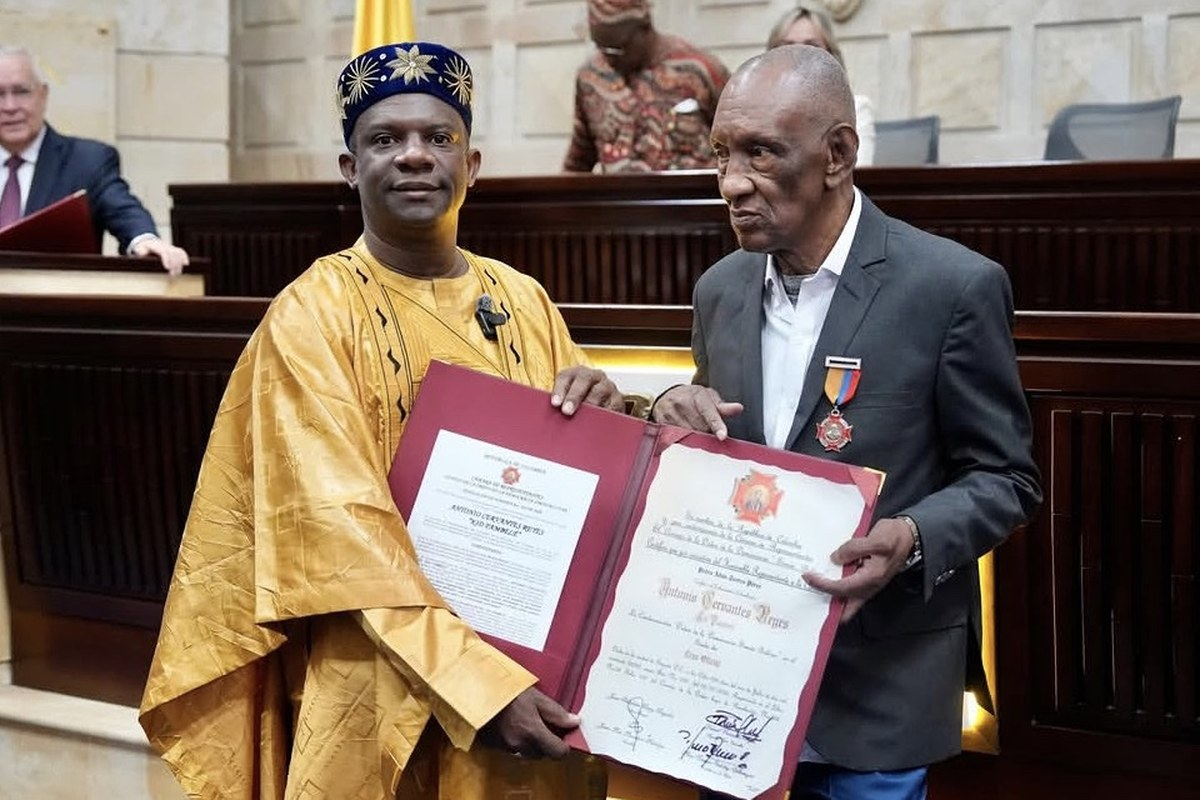
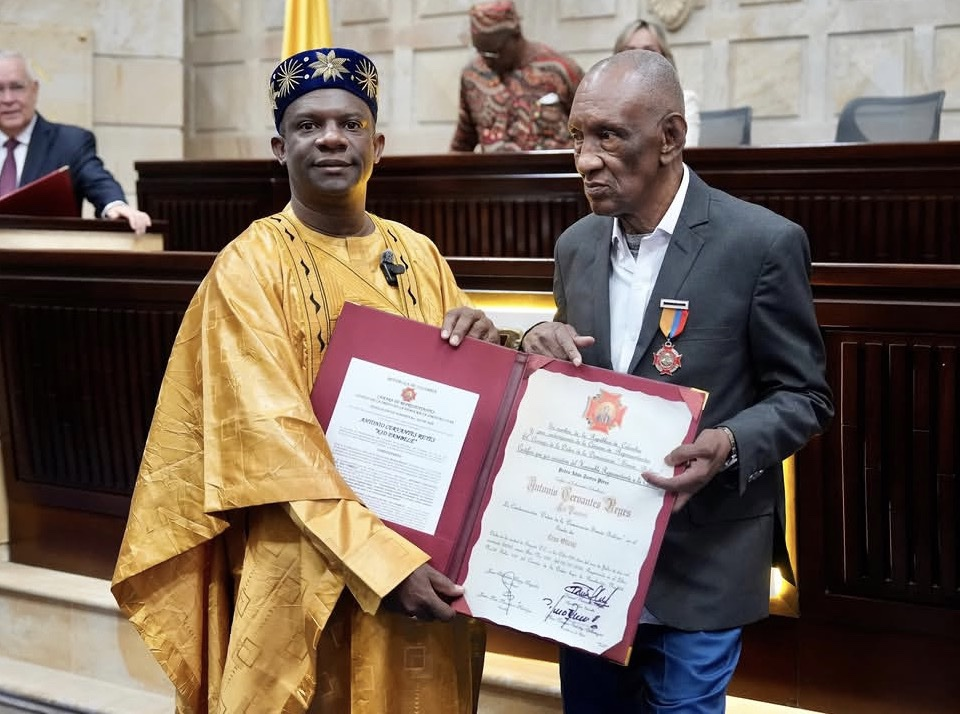
feat: galería de la sala, Pambelé y Pedro de vuelta (#19)
Tres fotos nuevas en la pieza de Orika. Se restauran el homenaje a
Kid Pambelé y el perfil de Pedro Adán Torres, sin la línea de
financiador. El pie sigue con Iniciar sesión.

diff --git a/lib/semilla.ts b/lib/semilla.ts
@@ -3,7 +3,8 @@ import type { EventoAgenda, PiezaPublica } from "./supabase/tipos";
 /**
  * Piezas en código cuando la base no tiene publicadas.
  * Mismo shape que una `pieza` publicada.
- * Foto de la sala en `public/semilla/sala-computo-inauguracion.jpg`.
+ * Fotos de la sala, del homenaje a Pambelé y del retrato de Torres
+ * en `public/semilla/`.
  */
 const AUTOR = { nombre: "El Chakero" };
 
@@ -30,6 +31,20 @@ export const SEMILLA_PIEZAS: PiezaPublica[] = [
     foto_url: "/semilla/sala-computo-inauguracion.jpg",
     pie_foto:
       "La sala de cómputo el día de la inauguración, 15 de septiembre de 2026.",
+    galeria: [
+      {
+        url: "/semilla/sala-computo-cinta.jpg",
+        pie: "Corte de cinta el día de la inauguración de la sala de cómputo, 15 de septiembre de 2026.",
+      },
+      {
+        url: "/semilla/sala-computo-clase.jpg",
+        pie: "Pedro Adán Torres con estudiantes en la sala de cómputo, el día de la inauguración.",
+      },
+      {
+        url: "/semilla/sala-computo-grupo.jpg",
+        pie: "La sala de cómputo el día de la inauguración, con estudiantes y profesores.",
+      },
+    ],
     audio_url: null,
     duracion: "1:25",
     entradilla:
@@ -80,6 +95,152 @@ Los estudiantes que entraron a la sala el martes hablaron de lo mismo: de lo bon
 
 Los computadores ya están. Lo que falta es el internet: la red del colegio tiene que mejorar para sacarles provecho. Torres dijo que va a seguir con esto; quiere que el Benkos Biohó sea un colegio de alta calidad, y Orika es el camino que propone para llegar ahí.`,
     transparencia: null,
+  }),
+  pieza({
+    id: "a1e1c001-0012-4000-8000-000000000012",
+    slug: "homenaje-kid-pambele-congreso-y-palenque",
+    titulo: "El Congreso condecoró a Kid Pambelé; en Palenque también lo honraron",
+    seccion: "cultura",
+    formato: "noticia",
+    fecha_publicacion: "2026-07-29T14:00:00-05:00",
+    foto_url: "/semilla/homenaje-kid-pambele.jpg",
+    pie_foto:
+      "Homenaje a Kid Pambelé: Pedro Adán Torres entrega la Orden de la Democracia Simón Bolívar – Gran Cruz Caballero a Antonio Cervantes Reyes, en el Congreso.",
+    audio_url: null,
+    duracion: null,
+    entradilla:
+      "Antonio Cervantes Reyes, de Palenque, primer campeón mundial de boxeo de Colombia. En julio el Congreso le impuso la Orden de la Democracia Simón Bolívar – Gran Cruz Caballero, por iniciativa de Pedro Adán Torres. En Palenque, en la Convención del Partido Demócrata Colombiano, el pueblo también lo honró.",
+    cuerpo: `En julio de 2026 el Congreso impuso a Antonio Cervantes Reyes, Kid Pambelé, la Orden de la Democracia Simón Bolívar – Gran Cruz Caballero.
+
+Cervantes es de Palenque. El Universal dató el nacimiento el 23 de diciembre de 1945, en San Basilio de Palenque. El 28 de octubre de 1972, dice esa misma casa, ganó por nocaut en el décimo asalto al panameño Alfonso «Peppermint» Frazer y se quedó con el título mundial de los wélter júnior: el primer cinturón mundial de boxeo de Colombia. El palenquero fue campeón en dos periodos; en 1998, según ese medio, entró al Salón Internacional de la Fama del Boxeo. El Chakero no inventa un combate.
+
+El Universal anunció el homenaje para el lunes 20, día de la instalación del nuevo Congreso. El Bolivarense lo dató el viernes 17. El Heraldo y Diario La Libertad lo publicaron el 20. Semana escribió que fue pocos días antes de que cerrara esa legislatura. El Chakero no va a pelear el día. El dato es este: Salón Boyacá del Capitolio. La orden es una de las distinciones altas de la Cámara. La impuso Pedro Adán Torres Pérez, de Palenque, entonces representante por la circunscripción especial afrodescendiente, presidente del Partido Demócrata Colombiano.
+
+En la foto, Torres entrega la orden y Pambelé la recibe.
+
+Torres, según El Heraldo: «Su historia, nacida en San Basilio de Palenque, inspiró a generaciones de colombianos y abrió el camino para que el talento de muchos jóvenes encontrara nuevas oportunidades en el deporte». Y, en varios medios, esta otra: «Kid Pambelé no solo conquistó títulos mundiales; conquistó el respeto y la admiración de todo un país. Su ejemplo demuestra que el talento, la disciplina y la perseverancia pueden romper cualquier barrera. Hoy el Congreso de la República honra a un campeón que pertenece para siempre a la historia de Colombia».
+
+En el mismo acto, dicen Caracol, El Universal y Diario La Libertad, también condecoraron a Johana Ximena Aranda Rivera, alcaldesa de Ibagué; a Francisco Hernández, primer árbitro internacional de boxeo oriundo de Palenque; y a José Alfredo Herazo, por el trabajo con las comunidades negras, afrocolombianas, raizales y palenqueras. Discursos de ellos no hay aquí.
+
+El Universal recuerda que no era la primera vez en el Capitolio: en octubre de 2022, al cumplirse 50 años de la primera corona, lo condecoraron en el Salón Elíptico.
+
+Ese homenaje no se quedó en Bogotá. En Palenque, en la Convención Nacional del Partido Demócrata Colombiano —la que Vive La Noticia dató el 29 de julio—, también se le rindió homenaje a Cervantes. Lo que publicaron los otros es el Capitolio. Aquí el dato de El Chakero es el segundo acto: el pueblo. No hay hora, ni lista de oradores, ni presupuesto. Si sabes de algo que pasó, cuéntanos.
+
+Fotógrafo no se nombra. Gente tiene a Torres. Comunidad tiene la Convención.`,
+    cita: {
+      texto:
+        "Kid Pambelé no solo conquistó títulos mundiales; conquistó el respeto y la admiración de todo un país. Su ejemplo demuestra que el talento, la disciplina y la perseverancia pueden romper cualquier barrera. Hoy el Congreso de la República honra a un campeón que pertenece para siempre a la historia de Colombia.",
+      fuente:
+        "Pedro Adán Torres Pérez, homenaje en el Congreso, julio de 2026, citado por El Universal, Diario La Libertad y El Heraldo",
+    },
+    transparencia: null,
+    fuentes: [
+      {
+        texto: "El Universal, 17 jul 2026 — anuncio del homenaje y ficha de Pambelé",
+        url: "https://www.eluniversal.com.co/deportes/2026/07/17/el-congreso-rendira-tributo-a-la-leyenda-del-boxeo-kid-pambele/",
+      },
+      {
+        texto: "El Universal, 19 jul 2026 — la orden en el Salón Boyacá",
+        url: "https://www.eluniversal.com.co/deportes/2026/07/18/kid-pambele-recibio-la-orden-de-la-democracia-simon-bolivar-gran-cruz-caballero/",
+      },
+      {
+        texto: "Diario La Libertad, 20 jul 2026 — Torres entrega el reconocimiento",
+        url: "https://diariolalibertad.com/2026/07/20/pedro-adan-torres-entrega-reconocimiento-a-kid-pambele-en-el-congreso-de-la-republica/",
+      },
+      {
+        texto: "El Heraldo, 20 jul 2026 — citas de Torres y los otros condecorados",
+        url: "https://www.elheraldo.co/politica/2026/07/20/kid-pambele-es-reconocido-con-gran-cruz-caballero-del-congreso-de-la-republica-por-su-trayectoria-y-legado/",
+      },
+      {
+        texto: "Caracol Radio, 21 jul 2026 — Salón Boyacá y la orden",
+        url: "https://caracol.com.co/2026/07/21/congreso-condecora-a-kid-pambele-con-la-orden-de-la-democracia-simon-bolivar/",
+      },
+      {
+        texto: "El Bolivarense, 18 jul 2026 — dató la ceremonia el viernes 17",
+        url: "https://bolivarense.com/honor-al-campeon-congreso-condecora-a-kid-pambele-por-iniciativa-del-representante-a-la-camara-pedro-adan-torres/",
+      },
+      {
+        texto: "Semana, 24 jul 2026 — el homenaje, pocos días antes de cerrar esa legislatura",
+        url: "https://www.semana.com/confidenciales/articulo/la-condecoracion-que-le-hizo-el-congreso-a-kid-pambele/202625/",
+      },
+      {
+        texto: "Vive La Noticia, 29 jul 2026 — Convención Nacional en Palenque",
+        url: "https://vivelanoticia.com/2026/07/29/pedro-adan-torres-reivindica-el-origen-palenquero-del-partido-democrata-colombiano-durante-la-convencion-nacional/",
+      },
+      {
+        texto: "El Chakero — perfil de Pedro Adán Torres (Gente)",
+        url: "/gente/pedro-adan-torres-sala-sistemas/",
+      },
+    ],
+  }),
+  pieza({
+    id: "a1e1c001-0006-4000-8000-000000000006",
+    slug: "pedro-adan-torres-sala-sistemas",
+    titulo: "Pedro Adán Torres destinó el sueldo de la Cámara a la sala de cómputo",
+    seccion: "gente",
+    formato: "perfil",
+    fecha_publicacion: "2026-09-15T16:00:00-05:00",
+    foto_url: "/semilla/pedro-adan-torres.jpg",
+    pie_foto: "Pedro Adán Torres.",
+    audio_url: null,
+    duracion: null,
+    entradilla:
+      "Abogado de Palenque, excongresista por la circunscripción afro. El 15 de septiembre se inauguró la sala en la escuela Benkos Biohó. Es el arranque de ORICA.",
+    cuerpo: `Pedro Adán Torres Pérez, de Palenque, destinó el 100 % del sueldo de representante a una sala de cómputo en la escuela Benkos Biohó.
+
+Abogado. Fundador, presidente y representante legal del Partido Demócrata Colombiano, el que se declara primer partido de origen palenquero. En junio de 2026 ocupó, los días que faltaban del periodo, la curul de la circunscripción especial afrodescendiente que dejó Ana Rogelia Monsalve Álvarez. Iba segundo en la lista. El Universal lo dató el 19 de junio. El Afro Bogotano dice que asumió el miércoles de esa semana. Esa legislatura cerró el 20 de julio. Hoy es excongresista.
+
+En junio, El Universal y Diario La Libertad escribieron que el partido tenía un senador y tres representantes.
+
+Ese mismo junio puso el sueldo sobre la mesa. Dijo que el 100 % del salario de representante iba para adecuar y dotar una sala de sistemas en la Institución Etnoeducativa Técnica Agropecuaria Benkos Biohó. Dijo que las familias se esfuerzan y que a los muchachos de aquí se les niegan cosas que en otros lados parecen del diario. Prometió cuentas públicas: compras, plata, resultados, con la escuela. Diario La Libertad recogió también esto: que el liderazgo tiene sentido cuando se pone al servicio, y que servir pesa más que el puesto.
+
+En castellano, en junio, cuando llegó a la Cámara, dijo: «Soy hijo de Palenque».
+
+La sala se inauguró el 15 de septiembre de 2026. Es el arranque de ORICA, con la Fundación Código Abierto. Educación tiene esa pieza.
+
+En julio, todavía en la curul, impulsó el homenaje del Congreso a Kid Pambelé. Ya fuera de esa curul, el partido hizo Convención Nacional en Palenque. El pueblo también honró a Cervantes. Cultura tiene a Pambelé. Comunidad tiene la Convención.
+
+La foto es él.`,
+    cita: {
+      texto:
+        "San Basilio de Palenque le ha entregado mucho a Colombia, historia, libertad, resistencia y patrimonio cultural. Hoy quiero devolverle a mi tierra una pequeña parte de todo lo que me ha dado.",
+      fuente: "Pedro Adán Torres Pérez, citado por El Universal y El Afro Bogotano, junio de 2026",
+    },
+    transparencia: null,
+    fuentes: [
+      {
+        texto: "El Chakero, 15 sep 2026 — inauguración de la sala (Educación)",
+        url: "/educacion/colegio-benkos-bioho-estreno-sala-computo/",
+      },
+      {
+        texto: "El Chakero — homenaje a Kid Pambelé en el Congreso y en Palenque (Cultura)",
+        url: "/cultura/homenaje-kid-pambele-congreso-y-palenque/",
+      },
+      {
+        texto: "El Universal, 19 jun 2026 — curul, sueldo y periodo que faltaba",
+        url: "https://www.eluniversal.com.co/politica/2026/06/18/el-representante-a-la-camara-que-destinara-todo-su-salario-a-una-sala-de-sistemas-en-palenque/",
+      },
+      {
+        texto: "Diario La Libertad, 19 jun 2026 — «Soy hijo de Palenque» y devolver al pueblo",
+        url: "https://diariolalibertad.com/2026/06/19/pedro-adan-torres-llegara-a-la-camara-de-representantes-y-donara-el-100-de-su-salario-para-una-sala-de-sistemas-en-palenque/",
+      },
+      {
+        texto: "El Afro Bogotano, 19 jun 2026 — misma declaración",
+        url: "https://elafrobogotano.com.co/pedro-adan-torres-es-nuevo-representante-a-la-camara/",
+      },
+      {
+        texto: "Noticias y Respuestas, 17 jun 2026 — segundo renglón de la lista",
+        url: "https://noticiasyrespuestas.com/2026/06/17/estudiantes-de-palenque-tendran-sala-de-sistemas-gracias-a-curul-de-pedro-adan-torres-en-la-camara/",
+      },
+      {
+        texto: "Cámara de Representantes — ficha de Ana Rogelia Monsalve, circunscripción afro",
+        url: "https://www.camara.gov.co/representantes/ana-rogelia-monsalve-alvarez/",
+      },
+      {
+        texto: "Poder Legislativo / Cámara, 17 feb 2026 — esa curul afro hasta el 20 de julio",
+        url: "https://poderlegislativo.camara.gov.co/2026/02/17/las-comunidades-afrodescendientes-en-el-congreso-una-historia-gris-hasta-ahora/",
+      },
+    ],
   }),
 ];
 

diff --git a/app/[seccion]/[slug]/page.tsx b/app/[seccion]/[slug]/page.tsx
@@ -82,6 +82,17 @@ export default async function Articulo({ params }: Props) {
               {pieza.pie_foto ? <figcaption>{pieza.pie_foto}</figcaption> : null}
             </figure>
           ) : null}
+          {pieza.galeria && pieza.galeria.length > 0 ? (
+            <section className="galeria" aria-label="Más fotos">
+              {pieza.galeria.map((foto) => (
+                <figure key={foto.url}>
+                  {/* eslint-disable-next-line @next/next/no-img-element */}
+                  <img src={foto.url} alt={foto.pie} />
+                  <figcaption>{foto.pie}</figcaption>
+                </figure>
+              ))}
+            </section>
+          ) : null}
           {pieza.cita ? <Cita texto={pieza.cita.texto} fuente={pieza.cita.fuente} /> : null}
           {pieza.cuerpo ? <CuerpoPieza texto={pieza.cuerpo} /> : null}
           {pieza.fuentes && pieza.fuentes.length > 0 ? (

diff --git a/lib/supabase/tipos.ts b/lib/supabase/tipos.ts
@@ -46,6 +46,11 @@ export type FuentePublica = {
   url: string;
 };
 
+export type FotoPublica = {
+  url: string;
+  pie: string;
+};
+
 export type PiezaPublica = {
   id: string;
   slug: string | null;
@@ -66,6 +71,7 @@ export type PiezaPublica = {
   /** Solo semilla en código. La tabla `piezas` no tiene estas columnas. */
   fuentes?: FuentePublica[] | null;
   cita?: { texto: string; fuente?: string } | null;
+  galeria?: FotoPublica[] | null;
   semilla?: boolean;
 };
 

diff --git a/app/globals.css b/app/globals.css
@@ -889,6 +889,24 @@ textarea:focus-visible {
   margin-top: var(--s-2);
 }
 
+.articulo .galeria {
+  display: grid;
+  grid-template-columns: 1fr 1fr;
+  gap: var(--s-6);
+  max-width: var(--medida);
+  margin: 0 0 var(--s-6);
+}
+
+.articulo .galeria figure {
+  margin: 0;
+}
+
+@media (max-width: 820px) {
+  .articulo .galeria {
+    grid-template-columns: 1fr;
+  }
+}
+
 .fuentes {
   margin-top: var(--s-8);
   padding-top: var(--s-4);
